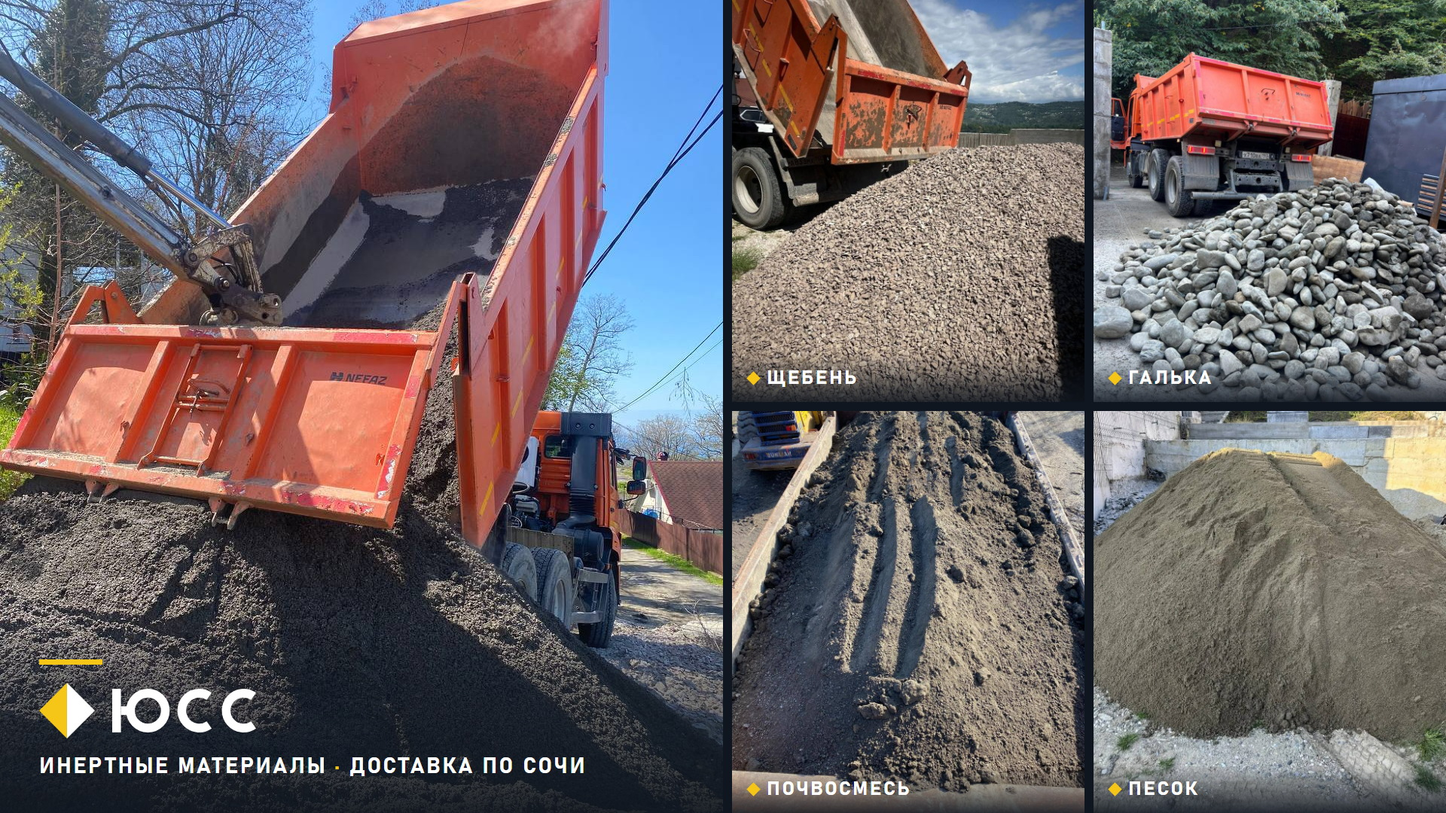
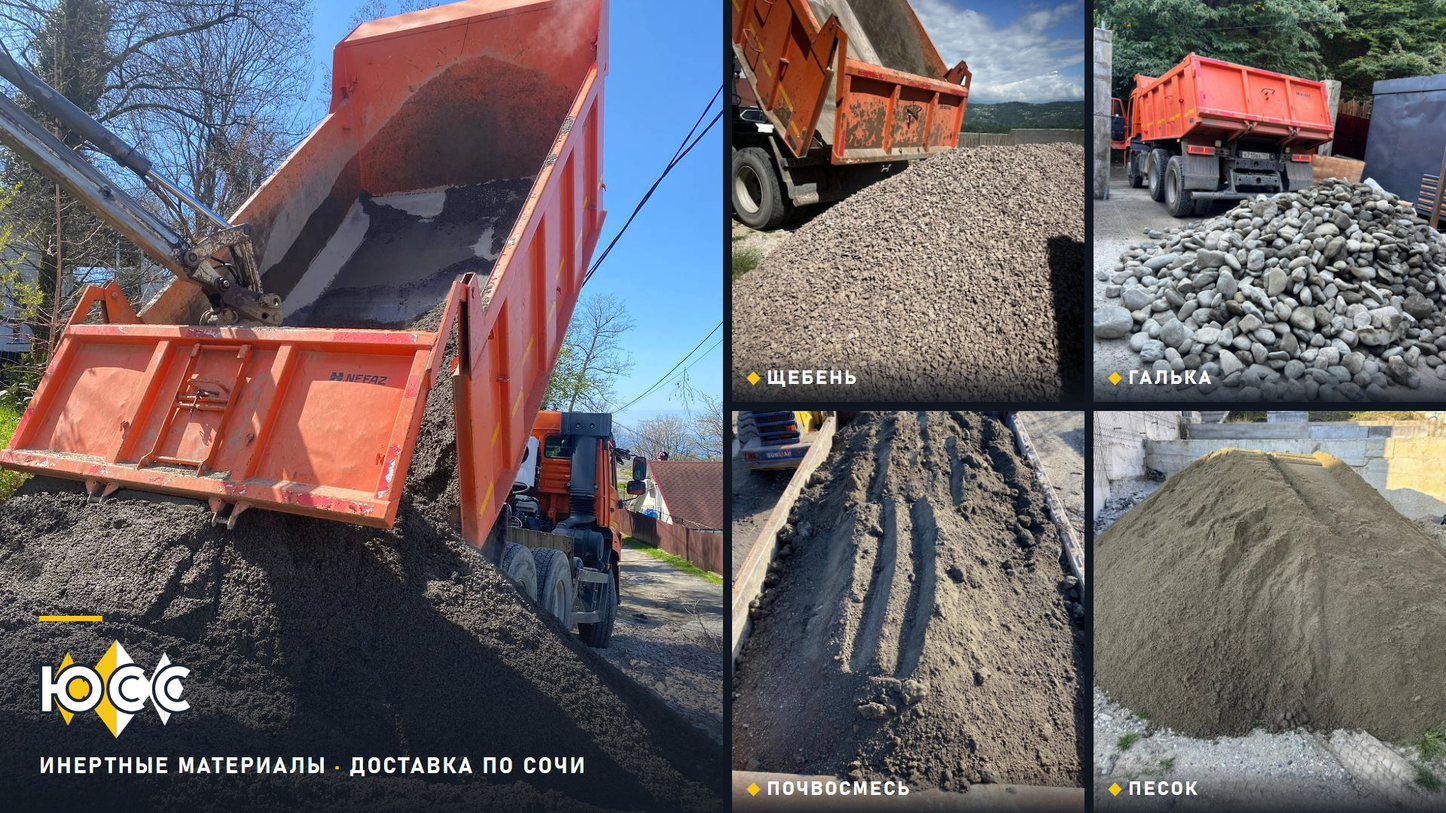
Логотип ЮСС: буквы наложены на ромбы, как в основном логотипе
Прежний вариант ставил буквы рядом со знаком — переделано:
три ромба (жёлтый / жёлто-чёрный / чёрный), поверх них ЮСС белым
с тёмной обводкой, то есть та же композиция, что и у логотипа
с полным названием. Добавлены вариант с одним ромбом и версии
для тёмного фона. Обложки 2ГИС пересобраны с новым знаком.

Changed region(s): [[0.0, 0.7333, 0.1875, 0.9167], [0.3125, 0.7333, 0.5, 0.8556]]

diff --git a/images/logo/preview-brand.html b/images/logo/preview-brand.html
@@ -8,47 +8,63 @@
         font-family:"Segoe UI",Arial,sans-serif; }
   .wrap{ max-width:1180px; margin:0 auto; padding:40px 24px 80px; }
   h1{ font-size:26px; margin:0 0 4px; }
-  .lead{ color:#5A5A5A; margin:0 0 36px; }
+  .lead{ color:#5A5A5A; margin:0 0 36px; max-width:760px; }
   h2{ font-size:17px; text-transform:uppercase; letter-spacing:1.5px; color:#5A5A5A;
       margin:44px 0 14px; border-bottom:1px solid #D8D8D8; padding-bottom:8px; }
-  .box{ background:#fff; border:1px solid #D8D8D8; border-radius:8px; padding:28px 32px; margin-bottom:14px; }
+  .box{ background:#fff; border:1px solid #D8D8D8; border-radius:8px;
+        padding:28px 32px; margin-bottom:12px; display:flex; align-items:flex-end;
+        gap:36px; flex-wrap:wrap; }
   .box.dark{ background:#1A2332; border-color:#1A2332; }
-  .box img{ max-width:100%; display:block; }
-  .row{ display:flex; gap:14px; flex-wrap:wrap; align-items:flex-end; }
-  .row img{ border:1px solid #D8D8D8; border-radius:6px; }
-  .cap{ font-size:13px; color:#8A8A8A; margin:8px 0 0; }
+  .box.plain{ display:block; padding:0; overflow:hidden; }
+  img{ max-width:100%; display:block; }
+  .cap{ font-size:13px; color:#8A8A8A; margin:6px 0 0; }
   code{ background:#EFF0EE; padding:2px 6px; border-radius:4px; font-size:13px; }
 </style>
 <div class="wrap">
   <h1>ЮСС — логотип и обложки</h1>
-  <p class="lead">Векторные файлы (SVG) масштабируются без потери качества: хоть на визитку, хоть на борт машины.</p>
+  <p class="lead">Векторные файлы (SVG) масштабируются без потери качества — хоть на визитку,
+  хоть на борт машины. Буквы вычерчены контурами, а не набраны шрифтом: у типографии
+  или у менеджера ничего не «поплывёт».</p>
 
-  <h2>Только буквы</h2>
-  <div class="box"><img src="logo-uss.svg" style="height:88px"></div>
-  <div class="box dark"><img src="logo-uss-white.svg" style="height:88px"></div>
-  <p class="cap"><code>logo-uss.svg</code> — на светлом, <code>logo-uss-white.svg</code> — на тёмном фоне и фото</p>
+  <h2>Основной знак — ЮСС поверх ромбов</h2>
+  <div class="box">
+    <img src="logo-uss.svg" style="height:170px">
+    <img src="logo-uss.svg" style="height:80px">
+    <img src="logo-uss.svg" style="height:44px">
+  </div>
+  <div class="box dark">
+    <img src="logo-uss-white.svg" style="height:170px">
+    <img src="logo-uss-white.svg" style="height:80px">
+  </div>
+  <p class="cap"><code>logo-uss.svg</code> — на светлом, <code>logo-uss-white.svg</code> — на тёмном фоне и на фото.
+  Композиция повторяет действующий логотип: те же ромбы, белые буквы с тёмной обводкой.</p>
 
-  <h2>Со знаком (ромб как в фавиконке сайта)</h2>
-  <div class="box"><img src="logo-uss-mark.svg" style="height:104px"></div>
-  <div class="box dark"><img src="logo-uss-mark-white.svg" style="height:104px"></div>
-  <p class="cap"><code>logo-uss-mark.svg</code> / <code>logo-uss-mark-white.svg</code> — основной вариант для шапок и документов</p>
+  <h2>Один ромб — для тесных мест</h2>
+  <div class="box"><img src="logo-uss-solo.svg" style="height:190px"><img src="logo-uss-solo.svg" style="height:84px"></div>
+  <div class="box dark"><img src="logo-uss-solo-white.svg" style="height:190px"></div>
+  <p class="cap"><code>logo-uss-solo.svg</code> / <code>logo-uss-solo-white.svg</code></p>
 
   <h2>Квадрат для аватарок (2ГИС, Яндекс, мессенджеры)</h2>
-  <div class="row">
-    <img src="logo-uss-icon-dark.svg" width="190">
-    <img src="logo-uss-icon-light.svg" width="190">
-    <img src="logo-uss-icon-dark.svg" width="72">
-    <img src="logo-uss-icon-light.svg" width="72">
-    <img src="logo-uss-icon-dark.svg" width="44">
+  <div class="box">
+    <img src="logo-uss-icon-light.svg" style="width:190px">
+    <img src="logo-uss-icon-dark.svg" style="width:190px">
+    <img src="logo-uss-icon-light.svg" style="width:72px">
+    <img src="logo-uss-icon-dark.svg" style="width:72px">
+    <img src="logo-uss-icon-light.svg" style="width:44px">
   </div>
-  <p class="cap">Справа — как это выглядит мелко в списке организаций. Всё внутри круга: не обрежется круглой аватаркой.</p>
+  <p class="cap">Справа — как знак выглядит мелко в списке организаций. Всё вписано в круг:
+  круглая аватарка ничего не срежет.</p>
+
+  <h2>Только буквы</h2>
+  <div class="box"><img src="logo-uss-letters.svg" style="height:74px"></div>
+  <p class="cap"><code>logo-uss-letters.svg</code> — когда ромбы лишние: штамп, подпись, водяной знак</p>
 
   <h2>Обложка для 2ГИС</h2>
-  <div class="box"><img src="../2gis/2gis-cover-16x9.jpg"></div>
+  <div class="box plain"><img src="../2gis/2gis-cover-16x9.jpg"></div>
   <p class="cap"><code>2gis-cover-16x9.jpg</code> — 1920×1080, основной вариант</p>
-  <div class="box"><img src="../2gis/2gis-cover-1x1.jpg" style="max-width:620px"></div>
+  <div class="box plain" style="max-width:620px"><img src="../2gis/2gis-cover-1x1.jpg"></div>
   <p class="cap"><code>2gis-cover-1x1.jpg</code> — 1200×1200, квадрат</p>
-  <div class="box"><img src="../2gis/2gis-cover-clean.jpg"></div>
+  <div class="box plain"><img src="../2gis/2gis-cover-clean.jpg"></div>
   <p class="cap"><code>2gis-cover-clean.jpg</code> — то же без надписей, если модерация придерётся к тексту на фото</p>
 </div>
 </html>

diff --git a/tools/2gis-cover.html b/tools/2gis-cover.html
@@ -28,7 +28,8 @@
   .plate{ position:absolute; left:0; right:0; bottom:0; padding:50px 52px 44px;
           background:linear-gradient(transparent, rgba(16,22,31,.5) 34%, rgba(16,22,31,.93)); }
   .rule{ width:84px; height:7px; background:var(--yellow); margin-bottom:24px; }
-  .plate img{ height:74px; width:auto; display:block; }
+  .plate img{ height:132px; width:auto; display:block; }
+  body.square .plate img{ height:104px; }
   .plate .sub{ margin-top:20px; color:#fff; font-size:29px; font-weight:700;
                letter-spacing:2.6px; text-transform:uppercase; }
   .plate .sub b{ color:var(--yellow); }
@@ -41,7 +42,7 @@
     <img src="../images/выгрузки/photo_2026-05-25_14-05-06.jpg" style="object-position:50% 42%">
     <div class="plate">
       <div class="rule"></div>
-      <img src="../images/logo/logo-uss-mark-white.svg" alt="ЮСС">
+      <img src="../images/logo/logo-uss-white.svg" alt="ЮСС">
       <div class="sub">Инертные материалы <b>·</b> доставка по Сочи</div>
     </div>
   </div>

diff --git a/tools/gen_logo.py b/tools/gen_logo.py
@@ -1,28 +1,66 @@
 # -*- coding: utf-8 -*-
-"""Генератор логотипа ЮСС. Буквы построены как геометрические контуры,
-шрифт не требуется — файл одинаково откроется в любой программе."""
+"""Генератор логотипа ЮСС.
+
+Композиция повторяет действующий логотип ЮгСтройСегмент: ромбы, а поверх них —
+буквы белым с тёмной обводкой. Буквы построены как геометрические контуры
+(Ю = стойка + перемычка + кольцо, С = дуга), поэтому шрифт для открытия
+файла не нужен.
+
+Запуск:  python gen_logo.py <папка> [<папка2> ...]
+"""
 import os, sys
 
-DARK = "#1A2332"
 YELLOW = "#F5C518"
-WHITE = "#FFFFFF"
+DARK   = "#1A2332"
+WHITE  = "#FFFFFF"
 
-W, H = 330.7, 100          # габарит блока букв
-CX2 = 302                  # центр второй С
+CAP  = 100      # высота буквы
+LW   = 330.7    # ширина блока букв
+CX2  = 302      # центр второй С
+OUT  = 7        # толщина обводки вокруг букв
+W    = LW + 2 * OUT   # 344.7 — ширина с обводкой
 
-def letters(color, indent="  "):
-    """ЮСС: Ю = стойка + перемычка + кольцо, С = дуга с раскрытием 110 град."""
+
+def _shapes(fill, stroke, sw, ind):
+    """Один проход по контурам букв: сначала заливки, потом дуги."""
     return (
-        f'{indent}<g fill="{color}">\n'
-        f'{indent}  <path d="M0 0h20v100H0z"/>\n'
-        f'{indent}  <path d="M20 40h22v20H20z"/>\n'
-        f'{indent}</g>\n'
-        f'{indent}<g fill="none" stroke="{color}" stroke-width="20">\n'
-        f'{indent}  <circle cx="82" cy="50" r="40"/>\n'
-        f'{indent}  <path d="M222.94 17.23A40 40 0 1 0 222.94 82.77"/>\n'
-        f'{indent}  <path d="M{CX2 + 22.94} 17.23A40 40 0 1 0 {CX2 + 22.94} 82.77"/>\n'
-        f'{indent}</g>\n'
+        f'{ind}<g fill="{fill}" stroke="{stroke}" stroke-width="{sw}" stroke-linejoin="miter">\n'
+        f'{ind}  <path d="M0 0h20v100H0z"/>\n'
+        f'{ind}  <path d="M20 40h22v20H20z"/>\n'
+        f'{ind}</g>\n'
+        f'{ind}<g fill="none" stroke="{stroke}" stroke-width="{sw + 20}">\n'
+        f'{ind}  <circle cx="82" cy="50" r="40"/>\n'
+        f'{ind}  <path d="M222.94 17.23A40 40 0 1 0 222.94 82.77"/>\n'
+        f'{ind}  <path d="M{CX2 + 22.94} 17.23A40 40 0 1 0 {CX2 + 22.94} 82.77"/>\n'
+        f'{ind}</g>\n'
     )
+
+
+def letters(y, outline=DARK, body=WHITE, ind="  "):
+    """ЮСС с обводкой: сперва раздутый тёмный контур, сверху белые буквы."""
+    inner = ind + "  "
+    return (
+        f'{ind}<g transform="translate({OUT} {y})">\n'
+        f'{_shapes(outline, outline, 2 * OUT, inner)}'
+        f'{_shapes(body, body, 0, inner)}'
+        f'{ind}</g>\n'
+    )
+
+
+def n(v):
+    """Убирает хвосты вида 22.349999999999994."""
+    v = round(v, 2)
+    return int(v) if v == int(v) else v
+
+
+def rhombus(cx, cy, hw, hh, left, right):
+    """Ромб двумя половинами: левая и правая могут быть разного цвета."""
+    cx, cy, hw, hh = n(cx), n(cy), n(hw), n(hh)
+    return (
+        f'  <path d="M{cx} {n(cy - hh)} {cx} {n(cy + hh)} {n(cx - hw)} {cy}Z" fill="{left}"/>\n'
+        f'  <path d="M{cx} {n(cy - hh)} {n(cx + hw)} {cy} {cx} {n(cy + hh)}Z" fill="{right}"/>\n'
+    )
+
 
 def svg(vw, vh, body):
     return (
@@ -31,37 +69,58 @@ def svg(vw, vh, body):
         f'  <title>ЮСС</title>\n{body}</svg>\n'
     )
 
-def plain(color):
-    return svg(W, H, letters(color))
 
-def mark(color, diamond_right):
-    """Ромб (как в фавиконке) + буквы. Ромб 128x128, отступ до букв 40."""
-    body = (
-        f'  <path d="M64 0 64 128 0 64Z" fill="{YELLOW}"/>\n'
-        f'  <path d="M64 0 128 64 64 128Z" fill="{diamond_right}"/>\n'
-        f'  <g transform="translate(168 14)">\n{letters(color, "    ")}  </g>\n'
+def emblem_body(dark_part):
+    """Три ромба как в действующем логотипе + ЮСС поверх.
+    dark_part — чем рисовать тёмные половины: DARK на светлом фоне, WHITE на тёмном."""
+    cx, cy = W / 2, 111
+    return (
+        rhombus(cx - 108, cy, 42, 83, YELLOW, YELLOW)      # левый жёлтый
+        + rhombus(cx + 108, cy, 42, 83, dark_part, dark_part)  # правый тёмный
+        + rhombus(cx, cy, 84, 111, YELLOW, dark_part)      # центральный жёлто-тёмный
+        + letters(61)
     )
-    return svg(round(168 + W, 1), 128, body)
 
-def icon(bg, color, diamond_right):
-    """Квадрат 512 для аватарок. Всё внутри круга r=256 — переживёт круглую обрезку."""
-    s = 1.2
-    x = round((512 - W * s) / 2, 1)
+
+def solo_body(dark_part):
+    """Один жёлто-тёмный ромб + ЮСС поверх."""
+    cx, cy = W / 2, 145
+    return rhombus(cx, cy, 145, 145, YELLOW, dark_part) + letters(95)
+
+
+def icon(bg, dark_part):
+    """Квадрат 512 для аватарок. Эмблема вписана в круг r=256 — переживёт круглую обрезку."""
+    s = 420 / W
+    x = round((512 - 420) / 2, 1)
+    y = round((512 - 222 * s) / 2, 1)
+    inner = "".join("  " + ln + "\n" for ln in emblem_body(dark_part).splitlines())
     body = (
         f'  <rect width="512" height="512" fill="{bg}"/>\n'
-        f'  <path d="M256 98 256 194 208 146Z" fill="{YELLOW}"/>\n'
-        f'  <path d="M256 98 304 146 256 194Z" fill="{diamond_right}"/>\n'
-        f'  <g transform="translate({x} 245) scale({s})">\n{letters(color, "    ")}  </g>\n'
+        f'  <g transform="translate({x} {y}) scale({round(s, 4)})">\n'
+        f'{inner}'
+        f'  </g>\n'
     )
     return svg(512, 512, body)
 
+
+def plain(color):
+    """Только буквы, без ромбов и обводки."""
+    return svg(LW, CAP, _shapes(color, color, 0, "  "))
+
+
 FILES = {
-    "logo-uss.svg":            plain(DARK),
-    "logo-uss-white.svg":      plain(WHITE),
-    "logo-uss-mark.svg":       mark(DARK, DARK),
-    "logo-uss-mark-white.svg": mark(WHITE, WHITE),
-    "logo-uss-icon-dark.svg":  icon(DARK, WHITE, WHITE),
-    "logo-uss-icon-light.svg": icon(WHITE, DARK, DARK),
+    # основной вариант — буквы поверх ромбов
+    "logo-uss.svg":              svg(W, 222, emblem_body(DARK)),
+    "logo-uss-white.svg":        svg(W, 222, emblem_body(WHITE)),
+    # один ромб, для тесных мест
+    "logo-uss-solo.svg":         svg(W, 290, solo_body(DARK)),
+    "logo-uss-solo-white.svg":   svg(W, 290, solo_body(WHITE)),
+    # квадрат для аватарок
+    "logo-uss-icon-light.svg":   icon(WHITE, DARK),
+    "logo-uss-icon-dark.svg":    icon(DARK, WHITE),
+    # только буквы — для мелких мест и подписей
+    "logo-uss-letters.svg":      plain(DARK),
+    "logo-uss-letters-white.svg": plain(WHITE),
 }
 
 for out_dir in sys.argv[1:]:
